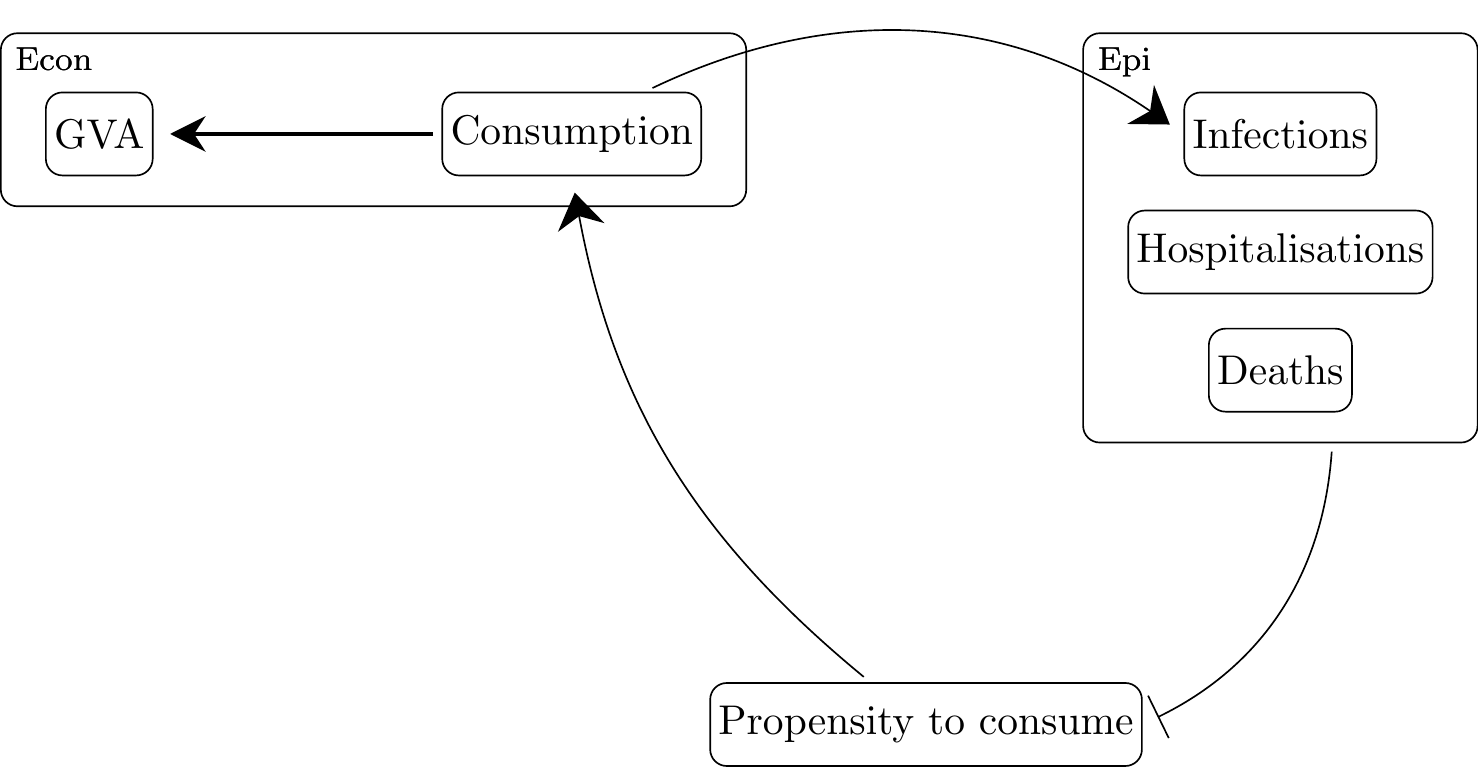
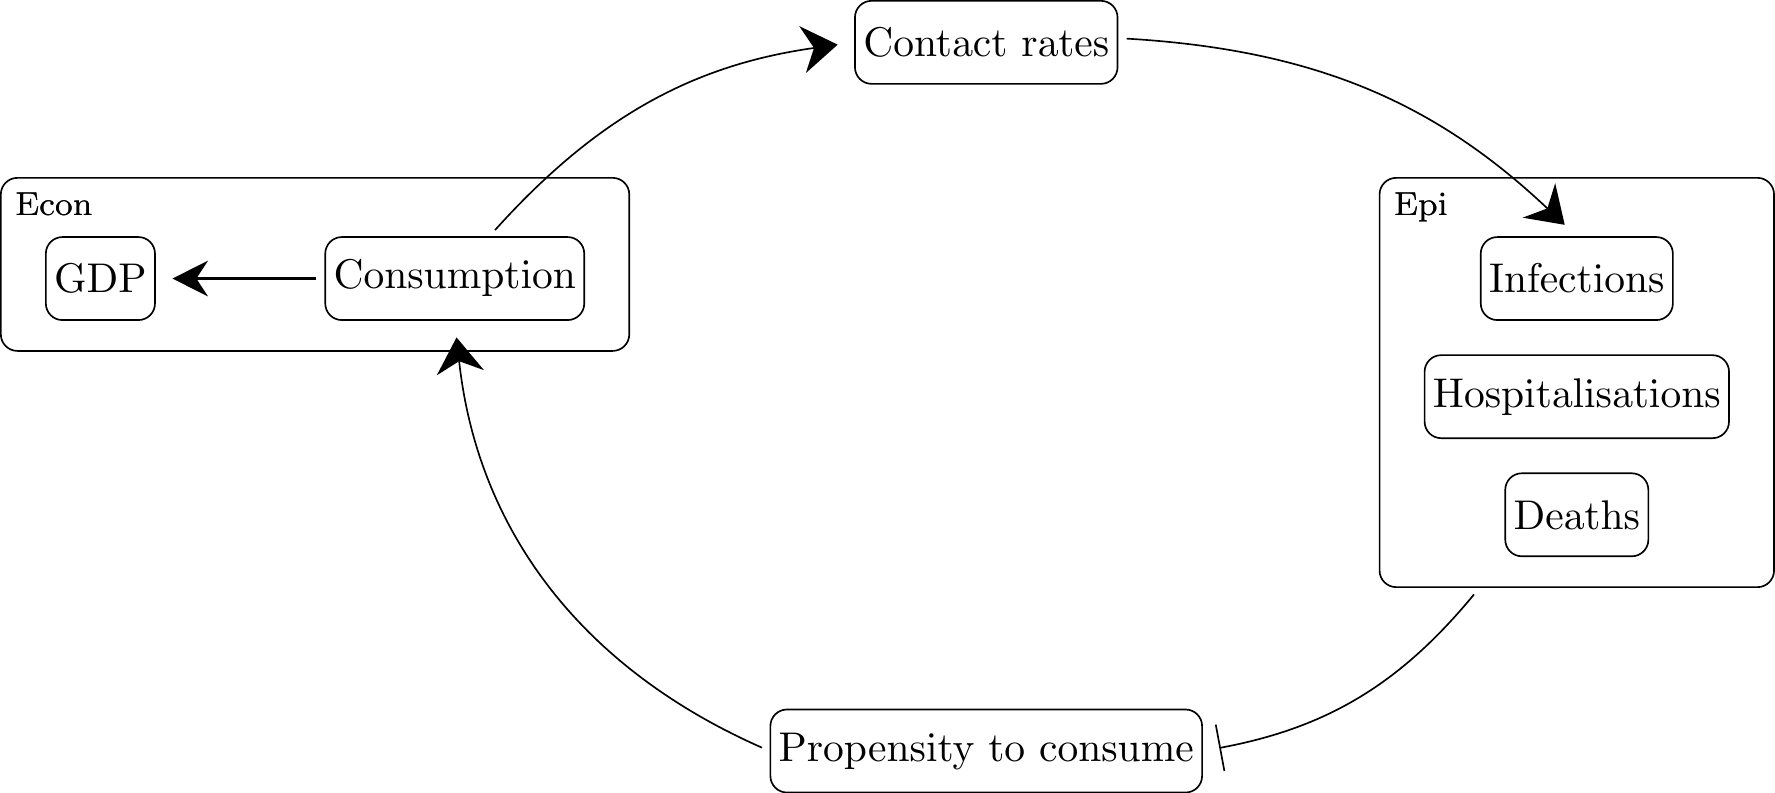
regen

diff --git a/README.md b/README.md
@@ -50,11 +50,11 @@ from <https://github.com/marcoverpas/Italy-SFC-Model> and
 
 <div class="figure">
 
-<img src="README_files/figure-gfm/consumption-1.png" alt="Epi variables reduce propensity to consume, which reduces consumption, and therefore GVA and new infections." width="70%" />
+<img src="README_files/figure-gfm/consumption-1.png" alt="Epi variables reduce propensity to consume, which reduces consumption, and therefore GVA, contacts, and new infections." width="70%" />
 <p class="caption">
 <span id="fig:consumption"></span>Figure 1.1: Epi variables reduce
-propensity to consume, which reduces consumption, and therefore GVA and
-new infections.
+propensity to consume, which reduces consumption, and therefore GVA,
+contacts, and new infections.
 </p>
 
 </div>
@@ -87,7 +87,7 @@ cat(model1$econ_init)
 
     ## 4.748112
 
-The number of econ ODEs (so that the ODE model knows where the epi
+The number of econ ODEs (so that the ODE solver knows where the epi
 variables start):
 
 ``` r
@@ -129,7 +129,7 @@ cat(model1$gdp)
 
 Then there are functions to compute consumption (`get_cons`) and GDP
 (`get_gdp_from_out`), to compute the fractional reduction of consumption
-and labour, and the ODE (`odes`).
+and labour (`econ_to_epi`), and the ODEs (`odes`).
 
 ### 1.1.2 Initial conditions
 
